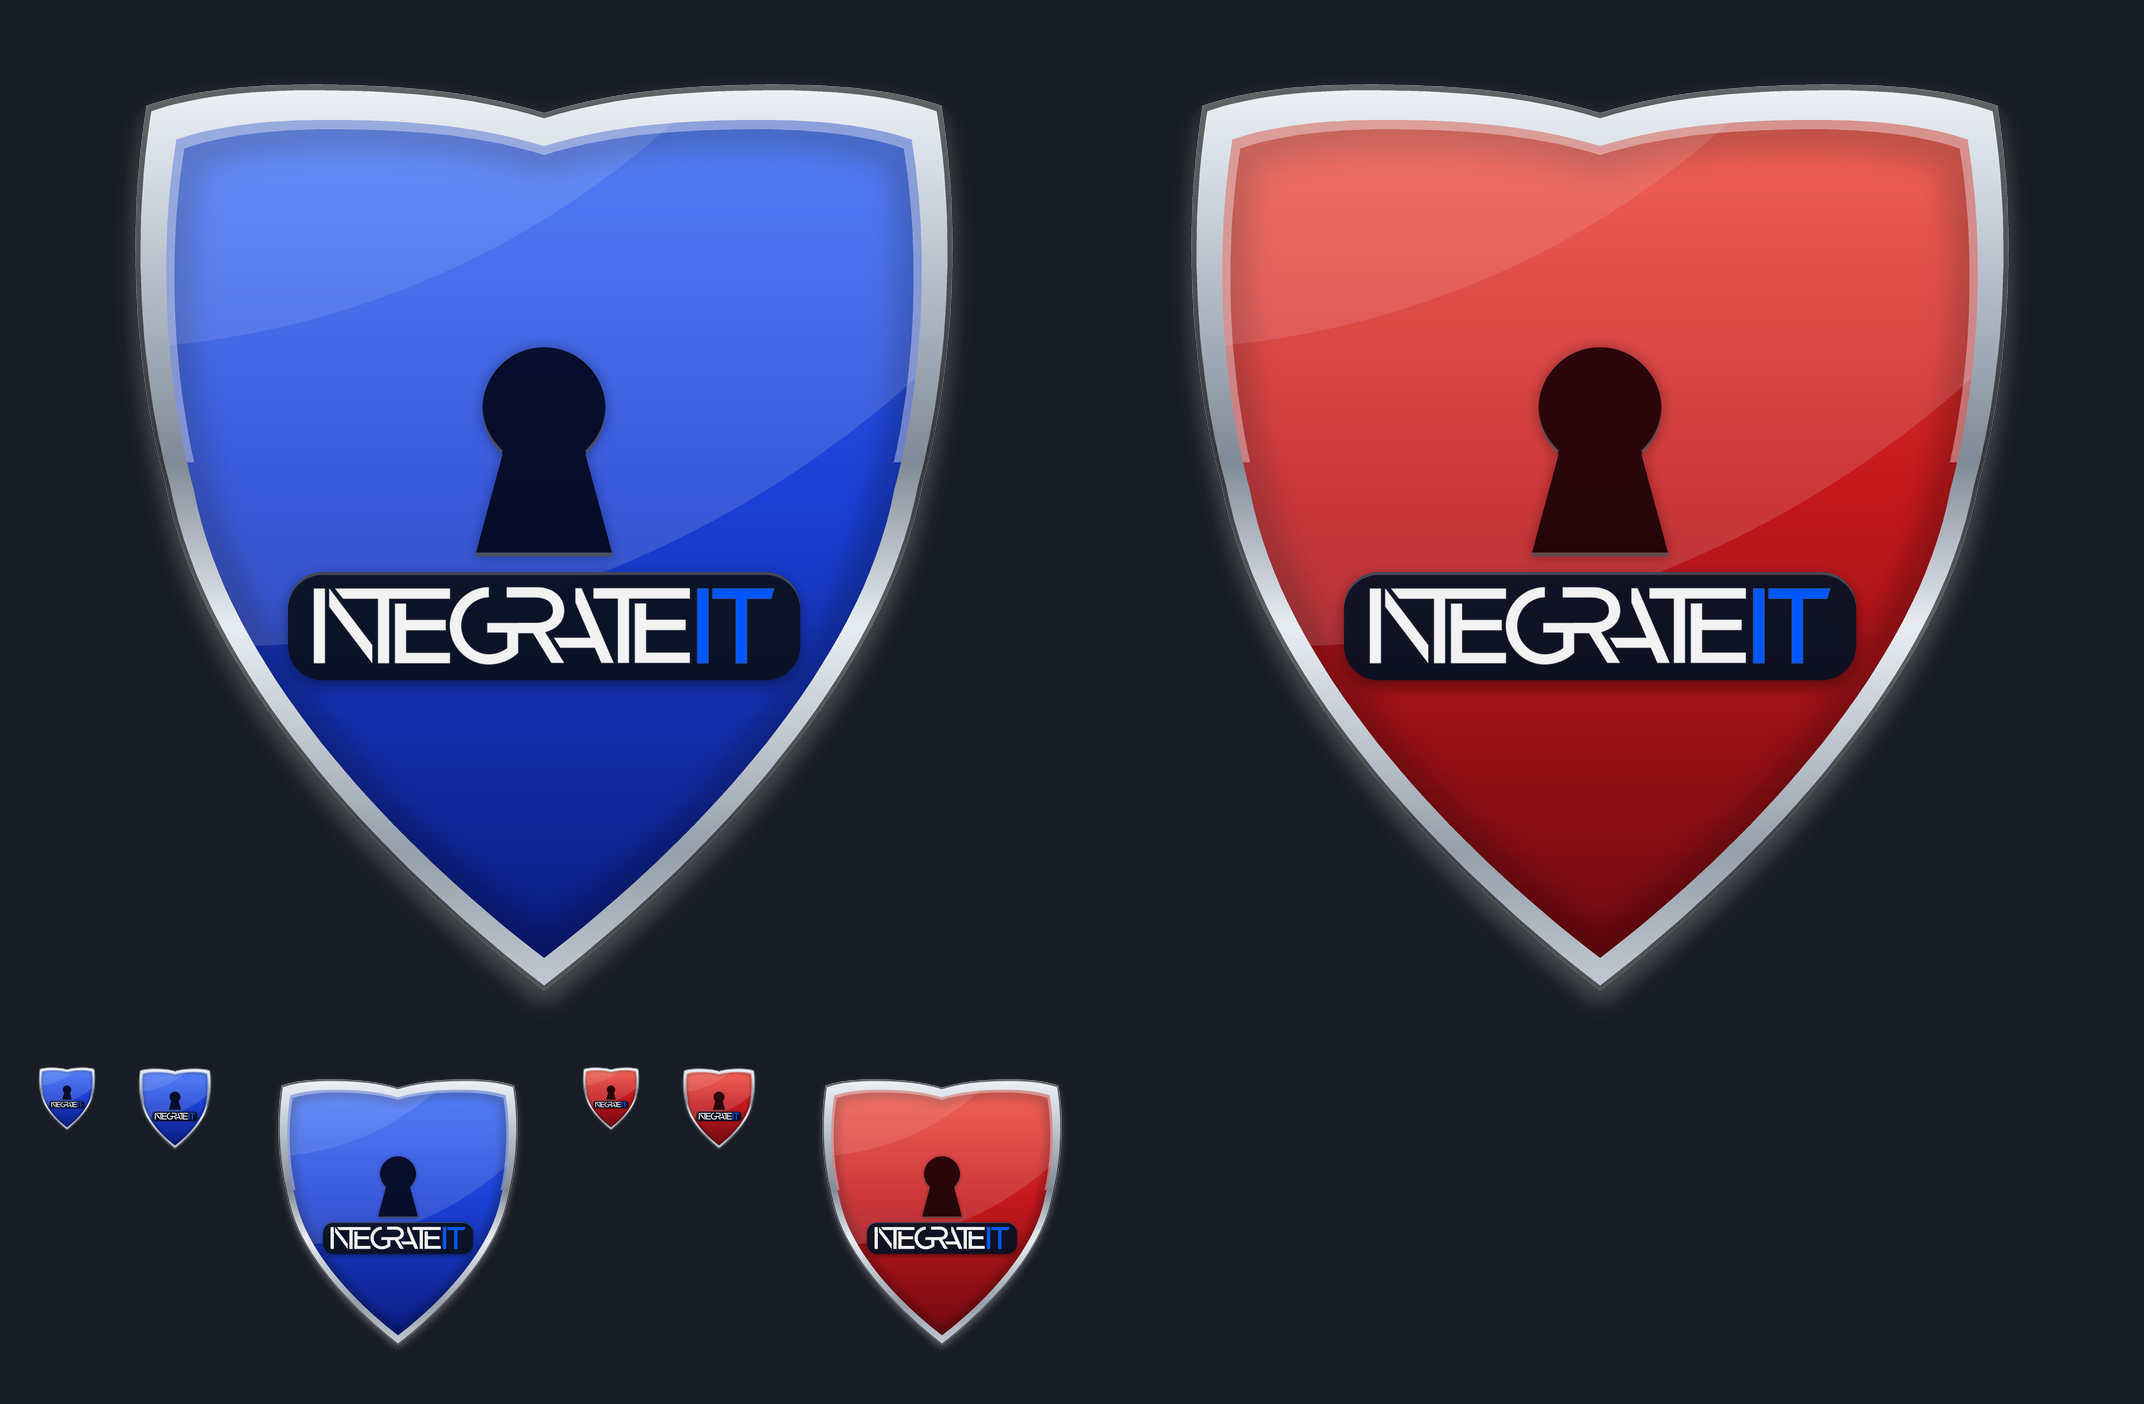
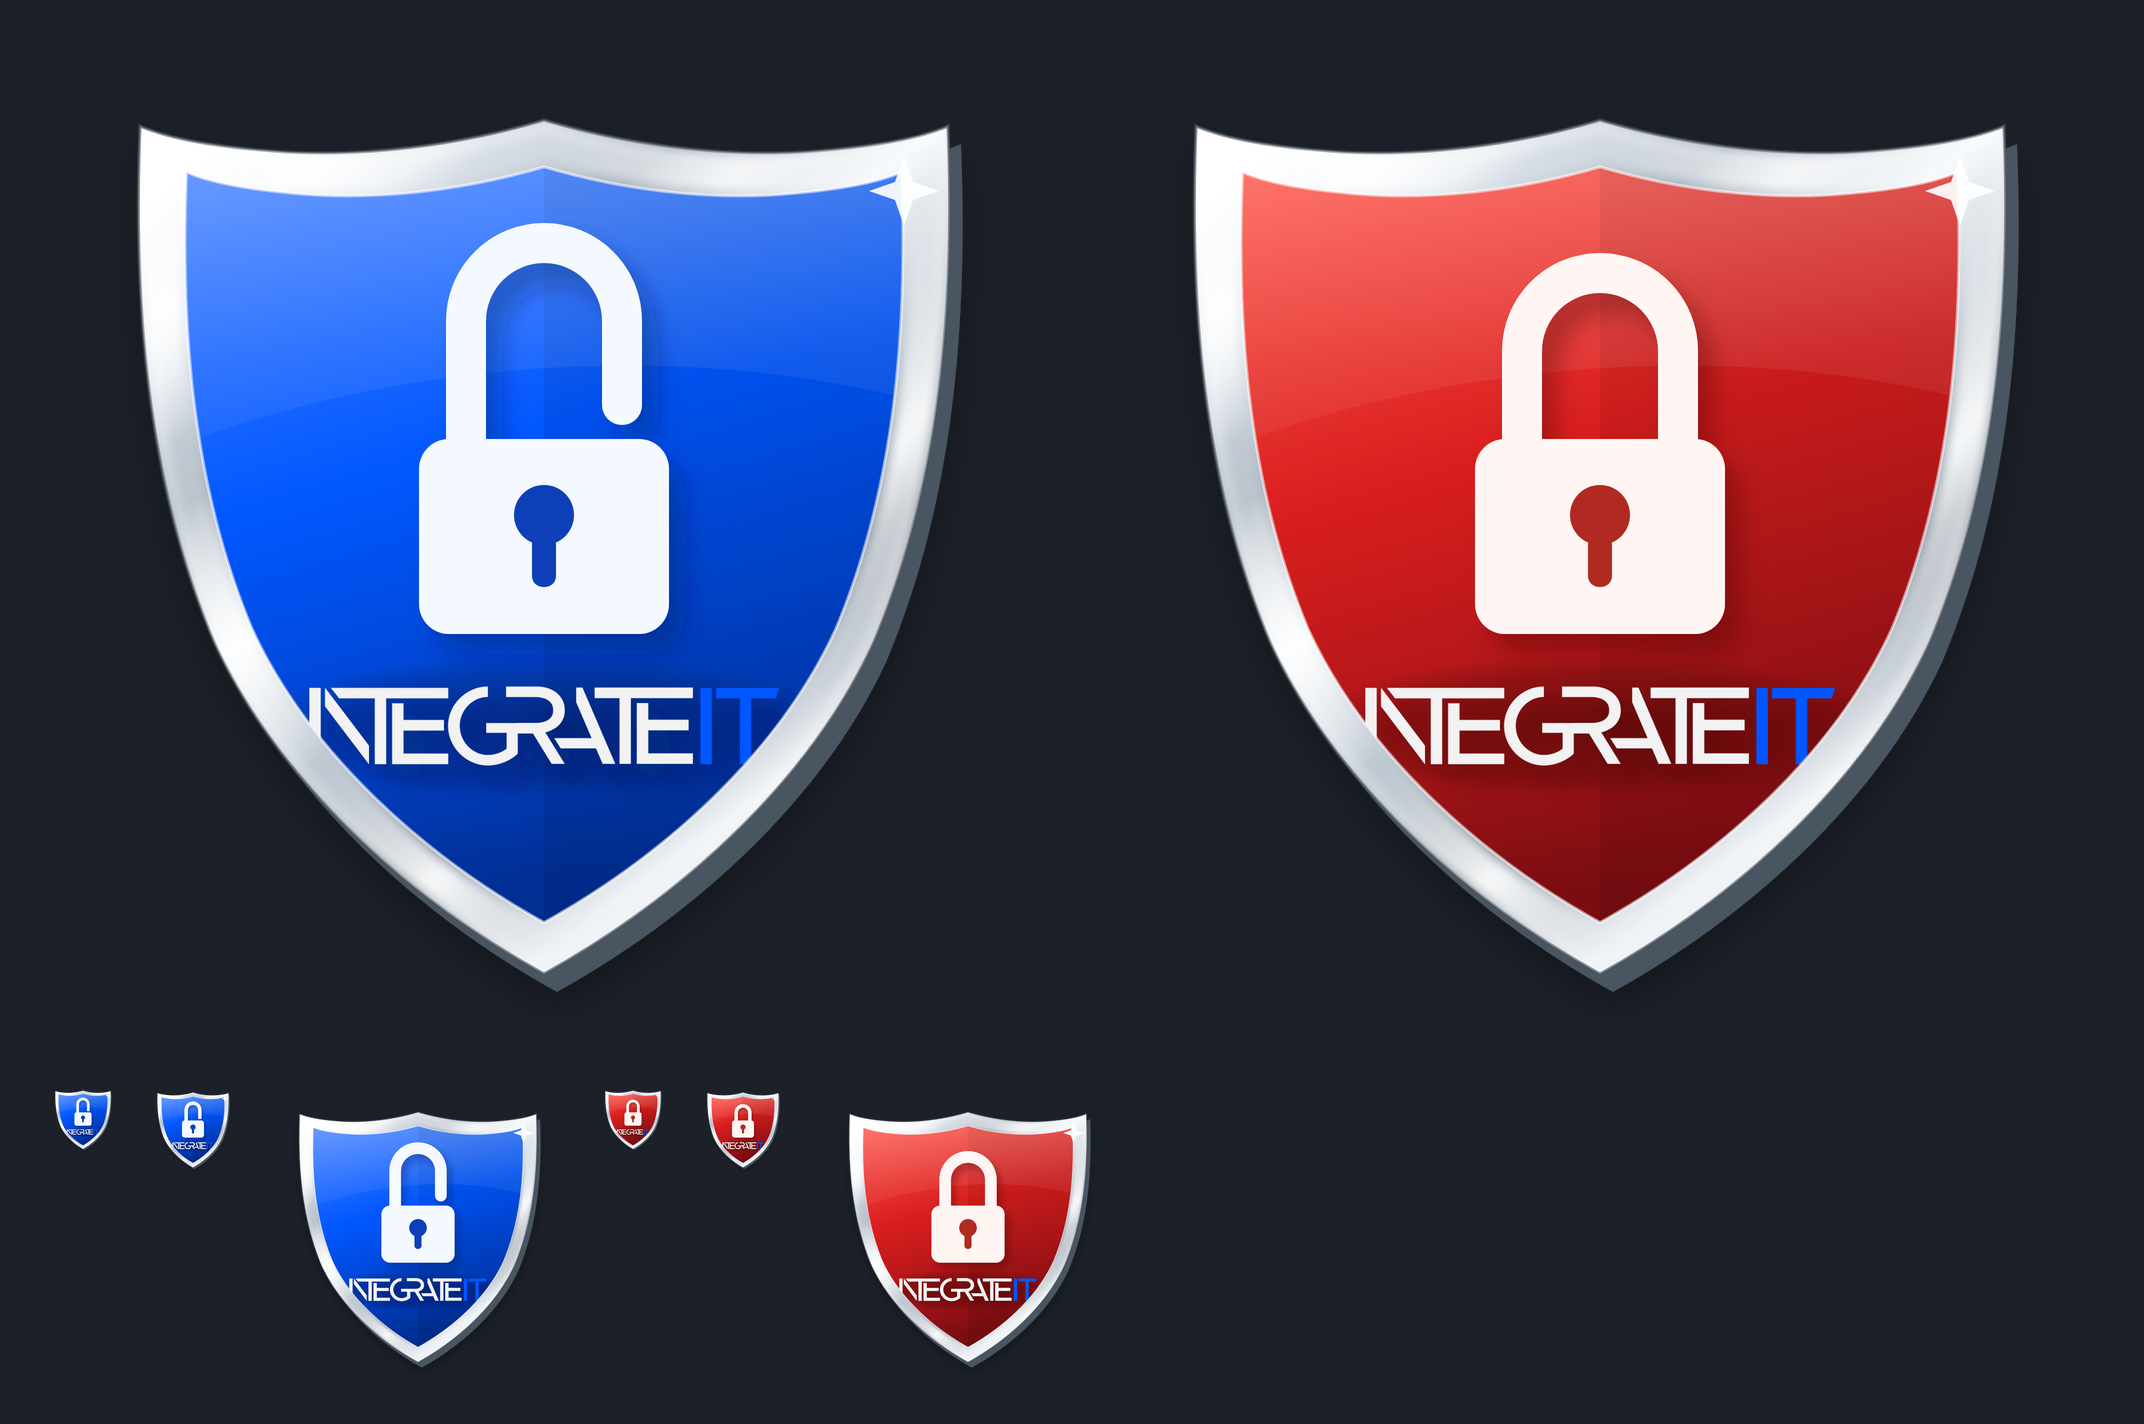
control4: publish driver channel (integrateit_security_button 0.1.1)

diff --git a/control4/integrateit_security_button/documentation.html b/control4/integrateit_security_button/documentation.html
@@ -179,7 +179,7 @@ td code{white-space:normal}
     <div class="wrap">
       <div class="brandbar">
[1 lines of base64/hex data omitted]
-        <span class="version"><span class="word">Driver</span> v0.1.0</span>
+        <span class="version"><span class="word">Driver</span> v0.1.1</span>
       </div>
       <p class="eyebrow">Control4 commissioning guide</p>
       <h1>IntegrateIT Security Button</h1>
@@ -225,7 +225,7 @@ td code{white-space:normal}
   <p>Mirroring a real panel: keep <code>Press Action = Request Only</code>, and add two lines of programming — when the panel reports armed → <code>Set Armed</code>; when it reports disarmed → <code>Set Disarmed</code>. Confirming a state the shield already shows is silent, so this wiring is safe to fire as often as the panel repeats itself.</p>
 <section class="card" id="reference" data-card="reference">
   <h2><span class="n">R</span> Reference</h2>
-  <p>Generated from the driver manifest at build time — always matches this build (v0.1.0).</p>
+  <p>Generated from the driver manifest at build time — always matches this build (v0.1.1).</p>
   <h3>Properties</h3>
   <table>
     <tr><th>Property</th><th>Type</th><th>Default</th><th>Description</th></tr>
@@ -376,7 +376,9 @@ td code{white-space:normal}
     <section class="card" id="changelog" data-card="changelog">
   <h2><span class="n">V</span> Version history</h2>
   <div class="chg">
-    <div class="rel"><b>v0.1.0</b> <span class="pill green">current</span><span class="d">2026-08-26</span>
+    <div class="rel"><b>v0.1.1</b> <span class="pill green">current</span><span class="d">2026-08-26</span>
+      <ul><li>premium shield art: platinum band with shine sweeping all the way around, IntegrateIT-blue glossy face, open padlock when disarmed and closed when armed</li></ul></div>
+    <div class="rel"><b>v0.1.0</b><span class="d">2026-08-26</span>
       <ul><li>Initial release: one Navigator experience button that arms/disarms the security system. Blue glossy IntegrateIT shield = Disarmed, red = Armed; the icon flips on every toggle (<code>ICON_CHANGED</code> icon states).</li><li>Three press behaviors: Toggle Armed / Disarmed (default), Request Only (programming confirms from real panel feedback — the shield never lies), and Disabled (status-only mirror).</li><li>Events: Pressed, Arm Requested, Disarm Requested, Armed, Disarmed, Loop Guard Tripped. Variables: SECURITY_STATE, IS_ARMED, LAST_CHANGE_SOURCE. Actions: Set Armed / Set Disarmed / Toggle / Refresh Navigator State / Print Configuration.</li><li>Safety rails ported from the Experience State Button: silent reboot restore, SELECT+DO_CLICK press debounce, three-layer loop guard, strict-boolean state inputs (fail-safe), non-finite property clamping.</li><li>Branded icon set rendered by <code>gen_icons_shield.py</code> (chrome rim, glossy body, keyhole, alpha-cropped IntegrateIT wordmark plaque) at 70/90/300/512/1024 — static assets; deliberately no icons.spec.json.</li></ul></div>
   </div>
 </section>

diff --git a/control4/integrateit_security_button/CHANGELOG.md b/control4/integrateit_security_button/CHANGELOG.md
@@ -1,5 +1,8 @@
 # Changelog — IntegrateIT Security Button
 
+## [0.1.1] - 2026-08-26
+- premium shield art: platinum band with shine sweeping all the way around, IntegrateIT-blue glossy face, open padlock when disarmed and closed when armed
+
 ## [0.1.0] - 2026-08-26
 - Initial release: one Navigator experience button that arms/disarms the security
   system. Blue glossy IntegrateIT shield = Disarmed, red = Armed; the icon flips
